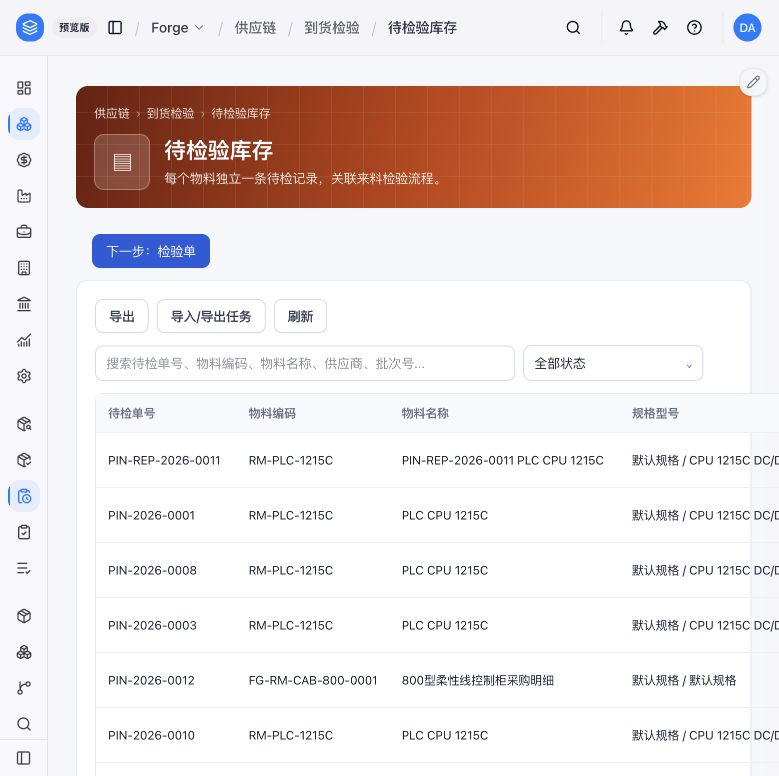
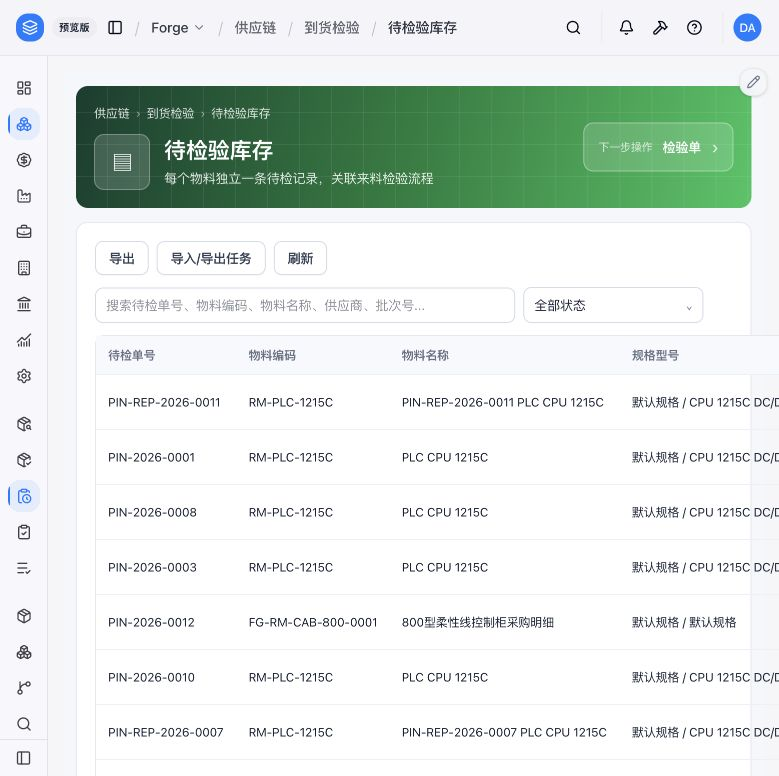
feat(forge): RISEMAP-parity toolbars for 到货通知/待检验库存/生产出库/出库单列表/报损单

diff --git a/apps/forge-objectstack/src/pages/inventory-damage.page.ts b/apps/forge-objectstack/src/pages/inventory-damage.page.ts
@@ -24,7 +24,7 @@ function App(){
  if(state.loading)return <div className="forge-product forge-damage"><style>{${JSON.stringify(css)}}</style><div className="fp-shell"><ForgeLoading label="正在加载报损单"/></div></div>;
  if(newMode||editMode){if(editMode&&state.record?.status!=='draft')return <div className="forge-product forge-damage"><style>{${JSON.stringify(css)}}</style><div className="fp-shell"><ForgeNotice tone="error">仅草稿报损单可以编辑。</ForgeNotice></div></div>;return <div className="forge-product forge-damage"><style>{${JSON.stringify(css)}}</style><div className="fp-shell"><div className="fp-phase"><span className="fp-phase-index">损</span><strong>库存管理 / 报损单 / {editMode?'编辑草稿':'新建'}</strong></div><div className="fp-page-header"><div className="fp-heading"><h1 className="fp-title">{editMode?'编辑报损单':'新建报损单'}</h1><div className="fp-description">报损提交审核后才会扣减库存，请核对仓库、类型和物料明细。</div></div><div className="fp-toolbar"><button className="fp-button" onClick={()=>window.location.href=recordId?window.location.pathname+'?id='+recordId:window.location.pathname}>取消</button><button className="fp-button" onClick={()=>{try{validate();setDialog({kind:'save',mode:'draft',title:'确认保存报损草稿',error:''})}catch(e){setDialog({kind:'message',title:'请检查报损信息',error:String(e.message||e)})}}}>保存草稿</button><button className="fp-button primary" onClick={()=>{try{validate();setDialog({kind:'save',mode:'submit',title:'确认提交报损审核',error:''})}catch(e){setDialog({kind:'message',title:'请检查报损信息',error:String(e.message||e)})}}}>提交审核</button></div></div>{toast&&<div className="fp-toast" role="status">{toast}</div>}<section className="fp-card" style={{padding:18,marginBottom:14}}><h2 className="fp-section-title">基本信息</h2><div className="fd-grid"><div className="fp-field"><label>报损仓库 *</label><ForgeSelectControl aria-label="报损仓库" value={form.warehouse_id} onChange={e=>setForm({...form,warehouse_id:e.target.value,lines:[]})}><option value="">请选择</option>{state.warehouses.map(x=><option key={x.id} value={x.id}>{x.name}</option>)}</ForgeSelectControl></div><div className="fp-field"><label>报损类型 *</label><div className="fp-toolbar"><ForgeSelectControl aria-label="报损类型" value={form.damage_type_id} onChange={e=>setForm({...form,damage_type_id:e.target.value})}><option value="">请选择</option>{activeTypes.map(x=><option key={x.id} value={x.id}>{x.name}</option>)}</ForgeSelectControl><button className="fp-button small" onClick={()=>setDialog({kind:'type',title:'快捷新增报损类型',name:'',description:'',color:'#64748b',error:''})}>快捷新增</button></div></div><div className="fp-field"><label>报损日期 *</label><ForgeDateInput aria-label="报损日期" value={form.damage_on} onChange={e=>setForm({...form,damage_on:e.target.value})}/></div></div></section><section className="fp-card"><div className="fp-card-header"><div><h2 className="fp-section-title">物料明细</h2><div className="fp-secondary">从所选仓库当前可用库存中添加物料。</div></div><button className="fp-button" disabled={!form.warehouse_id} onClick={addLine}>添加物料</button></div>{form.lines.length?<><div className="fp-table-wrap"><table className="fp-table fd-line-table"><thead><tr><th>#</th><th>物料 *</th><th>可用库存</th><th>报损数量 *</th><th>成本单价</th><th>报损金额</th><th>备注</th><th>操作</th></tr></thead><tbody>{form.lines.map((line,index)=>{const b=balanceFor(form.warehouse_id,line.sku_id);return <tr key={line.id||index}><td>{index+1}</td><td><ForgeSelectControl aria-label={'第'+(index+1)+'行报损物料'} value={line.sku_id} onChange={e=>updateLine(index,'sku_id',e.target.value)}><option value="">请选择</option>{state.balances.filter(x=>x.warehouse_id===form.warehouse_id&&Number(x.available_quantity)>0).map(x=><option key={x.id} value={x.sku_id}>{item(x.sku_id)}</option>)}</ForgeSelectControl></td><td>{qty(b?.available_quantity)}</td><td><input className="fp-input" aria-label={'第'+(index+1)+'行报损数量'} type="number" min="0.0001" value={line.quantity} onChange={e=>updateLine(index,'quantity',e.target.value)}/></td><td>{money(b?.average_cost)}</td><td>{money(Number(line.quantity||0)*Number(b?.average_cost||0))}</td><td><input className="fp-input" aria-label={'第'+(index+1)+'行备注'} value={line.remarks} onChange={e=>updateLine(index,'remarks',e.target.value)}/></td><td><button className="fp-button small danger" onClick={()=>removeLine(index)}>移除</button></td></tr>})}</tbody></table></div><div className="fd-summary"><span>物料种类 <strong>{form.lines.length}</strong></span><span>报损总量 <strong>{qty(form.lines.reduce((s,x)=>s+Number(x.quantity||0),0))}</strong></span><span>报损金额 <strong>{money(form.lines.reduce((s,x)=>s+Number(x.quantity||0)*Number(balanceFor(form.warehouse_id,x.sku_id)?.average_cost||0),0))}</strong></span></div></>:<ForgeEmpty title="暂无报损物料" description={'点击“添加物料”选择需要报损的物料'}/>}</section><section className="fp-card" style={{padding:18,marginTop:14}}><h2 className="fp-section-title">备注说明</h2><textarea className="fp-textarea" aria-label="报损原因" placeholder="描述报损原因..." value={form.remarks} onChange={e=>setForm({...form,remarks:e.target.value})}/><ForgeNotice>报损单提交后需审核确认，审核通过后将自动扣减库存。</ForgeNotice></section><ForgeDialog open={!!dialog} title={dialog?.title} subtitle="报损单" error={dialog?.error} busy={busy} confirmLabel={dialog?.kind==='type'?'确认新增':dialog?.mode==='submit'?'确认提交':'确认保存'} onCancel={()=>!busy&&setDialog(null)} onConfirm={()=>dialog?.kind==='type'?createType():dialog?.kind==='save'&&save(dialog.mode)}>{dialog?.kind==='type'?<div className="fd-grid"><div className="fp-field"><label>类型名称 *</label><input className="fp-input" aria-label="报损类型名称" value={dialog.name} onChange={e=>setDialog({...dialog,name:e.target.value,error:''})}/></div><div className="fp-field"><label>标识颜色</label><input className="fp-input" aria-label="报损类型颜色" type="color" value={dialog.color} onChange={e=>setDialog({...dialog,color:e.target.value})}/></div><div className="fp-field" style={{gridColumn:'1/-1'}}><label>类型描述</label><textarea className="fp-textarea" aria-label="报损类型描述" value={dialog.description} onChange={e=>setDialog({...dialog,description:e.target.value})}/></div></div>:dialog?.kind==='save'?<ForgeNotice>{dialog.mode==='submit'?'提交后进入审核流程，库存暂不变化；审核通过后按明细扣库。':'保存后仍为草稿，可继续编辑或作废，库存不会变化。'}</ForgeNotice>:null}</ForgeDialog></div></div>}
  if(recordId){const row=state.record;if(!row)return <div className="forge-product forge-damage"><style>{${JSON.stringify(css)}}</style><div className="fp-shell"><ForgeNotice tone="error">{state.error||'无法读取报损单'}</ForgeNotice></div></div>;return <div className="forge-product forge-damage"><style>{${JSON.stringify(css)}}</style><div className="fp-shell"><div className="fp-phase"><span className="fp-phase-index">损</span><button className="fp-link-button" onClick={()=>window.location.href=window.location.pathname}>报损单</button><span>/</span><strong>{row.code}</strong></div><div className="fp-page-header"><div className="fp-heading"><div className="fp-title-row"><h1 className="fp-title">{row.code}</h1><ForgeStatus value={row.status} label={statusText[row.status]}/></div><div className="fp-description">{warehouseName(row.warehouse_id)} · {typeName(row.damage_type_id)} · {row.damage_on}</div></div><div className="fp-toolbar"><button className="fp-button" onClick={()=>window.location.href=window.location.pathname}>返回列表</button>{row.status==='draft'&&<><button className="fp-button" onClick={()=>window.location.href=window.location.pathname+'?id='+row.id+'&edit=1'}>编辑草稿</button><button className="fp-button primary" onClick={()=>setDialog({kind:'submit',title:'确认提交报损审核',error:''})}>提交审核</button></>}{row.status==='pending_approval'&&<><button className="fp-button primary" onClick={()=>setDialog({kind:'approve',title:'审核并扣减库存',note:'',error:''})}>审核并扣库</button><button className="fp-button danger" onClick={()=>setDialog({kind:'reject',title:'驳回报损单',note:'',error:''})}>驳回</button></>}{['draft','rejected'].includes(row.status)&&<button className="fp-button danger" onClick={()=>setDialog({kind:'void',title:'确认作废报损单',reason:'',error:''})}>作废报损单</button>}</div></div>{toast&&<div className="fp-toast" role="status">{toast}</div>}<div className="fd-flow"><span className={row.status==='draft'?'active':''}>草稿</span><span className={row.status==='pending_approval'?'active':''}>待审批</span><span className={row.status==='completed'?'active':''}>已扣库</span></div><section className="fp-card" style={{padding:18,marginBottom:14}}><div className="fp-detail-grid"><div><span>报损仓库</span><strong>{warehouseName(row.warehouse_id)}</strong></div><div><span>报损类型</span><strong>{typeName(row.damage_type_id)}</strong></div><div><span>经手人</span><strong>{userName(row.handler_id)}</strong></div><div><span>物料种类</span><strong>{row.line_count}</strong></div><div><span>报损总量</span><strong>{qty(row.total_quantity)}</strong></div><div><span>报损金额</span><strong>{money(row.total_amount)}</strong></div><div><span>审批意见</span><strong>{row.approval_note||'—'}</strong></div><div><span>作废原因</span><strong>{row.void_reason||'—'}</strong></div></div></section><section className="fp-card"><div className="fp-card-header"><h2 className="fp-section-title">报损物料明细</h2></div><div className="fp-table-wrap"><table className="fp-table"><thead><tr><th>物料编码</th><th>名称 / 规格</th><th>数量</th><th>含税单位成本</th><th>报损金额</th><th>状态</th></tr></thead><tbody>{state.lines.map(line=><tr key={line.id}><td>{line.item_code||'—'}</td><td>{line.name}<div className="fp-secondary">{line.specification||'—'}</div></td><td>{qty(line.quantity)} {line.unit_name||''}</td><td>{money(line.unit_cost)}</td><td>{money(line.amount)}</td><td><ForgeStatus value={line.status} label={statusText[line.status]}/></td></tr>)}</tbody></table></div></section><ForgeDialog open={!!dialog} title={dialog?.title} subtitle={row.code} error={dialog?.error} busy={busy} danger={['reject','void'].includes(dialog?.kind)} confirmLabel={dialog?.kind==='approve'?'确认审核扣库':dialog?.kind==='reject'?'确认驳回':dialog?.kind==='void'?'确认作废':'确认提交'} onCancel={()=>!busy&&setDialog(null)} onConfirm={()=>{if(dialog?.kind==='submit')invoke('inventory_damage_submit');if(dialog?.kind==='approve'){const note=String(dialog.note||'').trim();if(!note)return setDialog({...dialog,error:'请填写审批意见'});invoke('inventory_damage_approve',{approval_note:note})}if(dialog?.kind==='reject'){const note=String(dialog.note||'').trim();if(!note)return setDialog({...dialog,error:'请填写驳回原因'});invoke('inventory_damage_reject',{approval_note:note})}if(dialog?.kind==='void'){const reason=String(dialog.reason||'').trim();if(!reason)return setDialog({...dialog,error:'请填写作废原因'});invoke('inventory_damage_void',{void_reason:reason})}}}><ForgeNotice tone={dialog?.kind==='approve'?'warning':'info'}>{dialog?.kind==='submit'?'提交后进入审核，库存暂不变化。':dialog?.kind==='approve'?'确认后将立即按全部明细扣减库存、写入逐物料流水，不能撤回。':dialog?.kind==='reject'?'驳回后不扣减库存，可保留记录用于追溯。':'作废后不能继续编辑、提交或审核，已填写内容保留用于追溯。'}</ForgeNotice>{['approve','reject'].includes(dialog?.kind)&&<div className="fp-field" style={{marginTop:12}}><label>{dialog.kind==='approve'?'审批意见':'驳回原因'} *</label><textarea className="fp-textarea" aria-label={dialog.kind==='approve'?'审批意见':'驳回原因'} value={dialog.note||''} onChange={e=>setDialog({...dialog,note:e.target.value,error:''})}/></div>}{dialog?.kind==='void'&&<div className="fp-field" style={{marginTop:12}}><label>作废原因 *</label><textarea className="fp-textarea" aria-label="作废原因" value={dialog.reason||''} onChange={e=>setDialog({...dialog,reason:e.target.value,error:''})}/></div>}</ForgeDialog></div></div>}
- return <div className="forge-product forge-damage"><style>{${JSON.stringify(css)}}</style><div className="fp-shell"><div className="fp-list-context"><ForgeHero section="供应链 / 库存管理 / 报损单" title="报损单" description="商品损坏、丢失、盘亏报损单据，支持审批流程" icon="▤" tone="orange" art="stack"/><div className="fp-toolbar"><button className="fp-button primary" onClick={()=>window.location.href=window.location.pathname+'?new=1'}>新建报损</button><button className="fp-button" disabled={!filtered.length} onClick={exportDamages}>导出</button><button className="fp-button" onClick={load}>刷新</button></div></div><div className="fp-description" style={{marginBottom:12}}>管理商品损坏、丢失与盘亏报损，审核通过后自动扣减库存。</div><section className="fp-card"><div className="fp-filterbar"><input className="fp-input" aria-label="搜索报损单" placeholder="搜索报损单号、仓库或类型" value={query} onChange={e=>{setQuery(e.target.value);setPage(1)}}/><ForgeSelectControl aria-label="报损状态" value={status} onChange={e=>{setStatus(e.target.value);setPage(1)}}><option value="">全部状态</option>{Object.entries(statusText).map(([value,label])=><option key={value} value={value}>{label}</option>)}</ForgeSelectControl><button className="fp-button" onClick={()=>{setQuery('');setStatus('')}}>清空筛选</button></div><div className="fp-table-wrap"><table className="fp-table"><thead><tr><th>报损单号</th><th>所在仓库</th><th>报损类型</th><th>报损物料</th><th>报损金额</th><th>经手人</th><th>状态</th><th>创建日期</th><th>操作</th></tr></thead><tbody>{visibleRows.map(row=><tr key={row.id}><td><strong>{row.code}</strong></td><td>{warehouseName(row.warehouse_id)}</td><td>{typeName(row.damage_type_id)}</td><td>{row.line_count}</td><td>{qty(row.total_quantity)}</td><td>{money(row.total_amount)}</td><td>{userName(row.handler_id)}</td><td><ForgeStatus value={row.status} label={statusText[row.status]}/></td><td>{String(row.created_at||row.damage_on||'').slice(0,10)}</td><td><div className="fp-toolbar"><button className="fp-button small" onClick={()=>window.location.href=window.location.pathname+'?id='+row.id}>查看</button>{row.status==='draft'&&<button className="fp-button small primary" onClick={()=>window.location.href=window.location.pathname+'?id='+row.id+'&edit=1'}>编辑</button>}</div></td></tr>)}{!visibleRows.length&&<tr><td colSpan="10"><ForgeEmpty title="暂无报损单" description="新建报损单后，可保存草稿或提交审核。" action={<button className="fp-button primary" onClick={()=>window.location.href=window.location.pathname+'?new=1'}>新建报损</button>}/></td></tr>}</tbody></table></div><div className="fp-toolbar" style={{justifyContent:'flex-end',marginTop:12}}><span className="fp-secondary">共 {filtered.length} 条 · 20 条/页</span><button className="fp-button" disabled={safePage<=1} onClick={()=>setPage(p=>Math.max(1,p-1))}>上一页</button><span>{safePage} / {totalPages}</span><button className="fp-button" disabled={safePage>=totalPages} onClick={()=>setPage(p=>Math.min(totalPages,p+1))}>下一页</button></div></section></div></div>
+ return <div className="forge-product forge-damage"><style>{${JSON.stringify(css)}}</style><div className="fp-shell"><ForgeHero section="供应链 / 库存管理 / 报损单" title="报损单" description="商品损坏、丢失、盘亏报损单据，支持审批流程" icon="▤" tone="orange" art="stack"/><div className="fp-description" style={{marginBottom:12}}>管理商品损坏、丢失与盘亏报损，审核通过后自动扣减库存。</div><section className="fp-card"><div className="fp-card-toolbar"><button className="fp-button primary" onClick={()=>window.location.href=window.location.pathname+'?new=1'}>新建报损</button><button className="fp-button" disabled={!filtered.length} onClick={exportDamages}>导出 ▾</button><span className="fp-grow"/><button className="fp-icon-button" aria-label="刷新" title="刷新" onClick={load}><svg viewBox="0 0 24 24" fill="none" stroke="currentColor" strokeWidth="2" strokeLinecap="round" strokeLinejoin="round"><path d="M21 12a9 9 0 1 1-3-6.7"/><path d="M21 3v6h-6"/></svg></button></div><div className="fp-filterbar"><input className="fp-input" aria-label="搜索报损单" placeholder="搜索报损单号、仓库或类型" value={query} onChange={e=>{setQuery(e.target.value);setPage(1)}}/><ForgeSelectControl aria-label="报损状态" value={status} onChange={e=>{setStatus(e.target.value);setPage(1)}}><option value="">全部状态</option>{Object.entries(statusText).map(([value,label])=><option key={value} value={value}>{label}</option>)}</ForgeSelectControl><button className="fp-button" onClick={()=>{setQuery('');setStatus('')}}>清空筛选</button></div><div className="fp-table-wrap"><table className="fp-table"><thead><tr><th>报损单号</th><th>所在仓库</th><th>报损类型</th><th>报损物料</th><th>报损金额</th><th>经手人</th><th>状态</th><th>创建日期</th><th>操作</th></tr></thead><tbody>{visibleRows.map(row=><tr key={row.id}><td><strong>{row.code}</strong></td><td>{warehouseName(row.warehouse_id)}</td><td>{typeName(row.damage_type_id)}</td><td>{row.line_count}</td><td>{qty(row.total_quantity)}</td><td>{money(row.total_amount)}</td><td>{userName(row.handler_id)}</td><td><ForgeStatus value={row.status} label={statusText[row.status]}/></td><td>{String(row.created_at||row.damage_on||'').slice(0,10)}</td><td><div className="fp-toolbar"><button className="fp-button small" onClick={()=>window.location.href=window.location.pathname+'?id='+row.id}>查看</button>{row.status==='draft'&&<button className="fp-button small primary" onClick={()=>window.location.href=window.location.pathname+'?id='+row.id+'&edit=1'}>编辑</button>}</div></td></tr>)}{!visibleRows.length&&<tr><td colSpan="10"><ForgeEmpty title="暂无报损单" description="新建报损单后，可保存草稿或提交审核。" action={<button className="fp-button primary" onClick={()=>window.location.href=window.location.pathname+'?new=1'}>新建报损</button>}/></td></tr>}</tbody></table></div><div className="fp-toolbar" style={{justifyContent:'flex-end',marginTop:12}}><span className="fp-secondary">共 {filtered.length} 条 · 20 条/页</span><button className="fp-button" disabled={safePage<=1} onClick={()=>setPage(p=>Math.max(1,p-1))}>上一页</button><span>{safePage} / {totalPages}</span><button className="fp-button" disabled={safePage>=totalPages} onClick={()=>setPage(p=>Math.min(totalPages,p+1))}>下一页</button></div></section></div></div>
 }
 export default App;
 ${forgeProductUiRuntime}

diff --git a/apps/forge-objectstack/src/pages/production-outbound-list.page.ts b/apps/forge-objectstack/src/pages/production-outbound-list.page.ts
@@ -15,7 +15,7 @@ function App(){
  const all=[...assemblyRows,...subcontractRows].filter(row=>{const material=row.lines.map(line=>[line.item_code,line.name,line.item_name].join(' ')).join(' '),haystack=[row.code,row.related,row.salesCode,row.customerPo,row.party,material,warehouse(row.warehouseId)].join(' ').toLowerCase();return(!query.trim()||haystack.includes(query.trim().toLowerCase()))&&(!type||row.type===type)&&(!status||row.status===status)}).sort((a,b)=>String(b.date).localeCompare(String(a.date))||String(b.code).localeCompare(String(a.code))),pageCount=Math.max(1,Math.ceil(all.length/20)),safePage=Math.min(page,pageCount),rows=all.slice((safePage-1)*20,safePage*20),selectedRows=all.filter(row=>selected.includes(row.id)),allSelected=rows.length>0&&rows.every(row=>selected.includes(row.id));
  function toggleAll(){setSelected(current=>allSelected?current.filter(id=>!rows.some(row=>row.id===id)):[...new Set([...current,...rows.map(row=>row.id)])])}function exportRows(){const headers=['出库单号','关联单号','销售单号','客户单号','往来单位','物料明细','仓库','出库日期','状态','物流信息','收入确认','操作员'],body=all.map(row=>[row.code,row.related,row.salesCode,row.customerPo,row.party,row.lines.map(line=>(line.item_code||'')+' '+(line.name||line.item_name||'')+'×'+qty(line.quantity??line.issue_quantity)).join('；'),warehouse(row.warehouseId),row.date,statusText[row.status],row.logistics,row.revenue,row.operator]),csv=[headers,...body].map(line=>line.map(value=>'"'+String(value??'').replaceAll('"','""')+'"').join(',')).join('\\n'),a=document.createElement('a');a.href=URL.createObjectURL(new Blob(['\\ufeff'+csv],{type:'text/csv'}));a.download='production-outbounds.csv';a.click();URL.revokeObjectURL(a.href);setToast('已导出 '+all.length+' 条生产出库单')}
  if(state.loading)return <div className="forge-product forge-production-outbound"><style>{css}</style><ForgeLoading label="加载生产出库"/></div>;
- return <div className="forge-product forge-production-outbound"><style>{css}</style><div className="fp-shell"><div className="fp-list-context"><div className="fp-phase"><span className="fp-phase-index">出</span><strong>出库管理 / 生产出库</strong></div><div className="fp-toolbar"><button className="fp-button primary" onClick={()=>window.location.href=forgeBase+'/page/page_production_inbound_entry'}>下一步操作　生产入库 ›</button><button className="fp-button" disabled={!selected.length} onClick={()=>setDialog({kind:'barcode'})}>打印条码</button><button className="fp-button" disabled={!all.length} onClick={exportRows}>导出</button><button className="fp-button" onClick={load}>刷新</button></div></div><ForgeHero section="供应链 / 出库管理 / 生产出库" title="生产出库" description="管理所有出库单和待出库发货单" icon="▤" tone="indigo" art="flow"/>{state.error&&<ForgeNotice tone="error" onClose={()=>setState(current=>({...current,error:''}))}>{state.error}</ForgeNotice>}<section className="fp-card"><div className="fp-filterbar"><input className="fp-input" aria-label="搜索生产出库" placeholder="搜索出库单号、客户、关联单号..." value={query} onChange={event=>{setQuery(event.target.value);setPage(1)}}/><ForgeSelect label="出库类型" value={type} onChange={value=>{setType(value);setPage(1)}} options={Object.entries(typeText).map(([value,label])=>({value,label}))} placeholder="全部出库类型"/><ForgeSelect label="状态" value={status} onChange={value=>{setStatus(value);setPage(1)}} options={Object.entries(statusText).map(([value,label])=>({value,label}))} placeholder="全部状态"/>{(query||type||status)&&<button className="fp-button" onClick={()=>{setQuery('');setType('');setStatus('');setPage(1)}}>清空筛选</button>}</div><div className="fp-table-wrap"><table className="fp-table"><thead><tr><th><input aria-label="选择当前页" type="checkbox" checked={allSelected} onChange={toggleAll}/></th><th>出库单号</th><th>关联单号</th><th>销售单号</th><th>客户单号</th><th>往来单位</th><th>物料明细</th><th>仓库</th><th>出库日期</th><th>状态</th><th>物流信息</th><th>收入确认</th><th>操作员</th><th>操作</th></tr></thead><tbody>{rows.map(row=><tr key={row.id}><td><input aria-label={'选择 '+row.code} type="checkbox" checked={selected.includes(row.id)} onChange={()=>setSelected(current=>current.includes(row.id)?current.filter(id=>id!==row.id):[...current,row.id])}/></td><td><strong>{row.code}</strong><div className="fp-secondary">{typeText[row.type]}</div></td><td>{row.related}</td><td>{row.salesCode}</td><td>{row.customerPo}</td><td>{row.party}</td><td>{row.lines.length?row.lines.slice(0,2).map((line,index)=><div key={line.id||index}>{line.item_code||'—'} · {line.name||line.item_name||'物料'} × {qty(line.quantity??line.issue_quantity)}</div>):<span>明细随来源单查看</span>}</td><td>{warehouse(row.warehouseId)}</td><td>{row.date||'—'}</td><td><ForgeStatus value={row.status} label={statusText[row.status]}/></td><td>{row.logistics}</td><td>{row.revenue}</td><td>{row.operator}</td><td><div className="fp-toolbar"><button className="fp-button small" onClick={()=>setDialog({kind:'detail',row})}>查看</button><button className={'fp-button small '+(row.status==='pending'?'primary':'')} onClick={()=>window.location.href=row.href}>{row.status==='pending'?'办理':'来源单'}</button></div></td></tr>)}{!rows.length&&<tr><td colSpan="14" className="fp-empty-cell"><ForgeEmpty title="暂无生产出库单" description="确认组装领料、补料或委外发料后，生产出库记录会汇总到这里。"/></td></tr>}</tbody></table></div><div className="fp-pagination"><span>共 <strong>{all.length}</strong> 条记录</span><span>每页 20 条</span><button className="fp-button small" disabled={safePage<=1} onClick={()=>setPage(value=>Math.max(1,value-1))}>上一页</button><span>{safePage} / {pageCount}</span><button className="fp-button small" disabled={safePage>=pageCount} onClick={()=>setPage(value=>Math.min(pageCount,value+1))}>下一页</button></div></section></div>{dialog&&<ForgeDialog open title={dialog.kind==='barcode'?'生产出库条码预览':'生产出库详情'} subtitle={dialog.kind==='barcode'?'已选择 '+selectedRows.length+' 张出库单':dialog.row.code} confirmLabel="关闭" onCancel={()=>setDialog(null)} onConfirm={()=>setDialog(null)}>{dialog.kind==='barcode'?<div className="barcode-list">{selectedRows.map(row=><div className="barcode-item" key={row.id}><strong>{row.code}</strong><div>{typeText[row.type]} · {statusText[row.status]} · {qty(row.quantity)} · {money(row.amount)}</div></div>)}</div>:<div className="detail-grid"><div className="detail-item"><small>关联单号</small>{dialog.row.related}</div><div className="detail-item"><small>出库类型</small>{typeText[dialog.row.type]}</div><div className="detail-item"><small>往来单位</small>{dialog.row.party}</div><div className="detail-item"><small>仓库 / 日期</small>{warehouse(dialog.row.warehouseId)} / {dialog.row.date||'—'}</div><div className="detail-item"><small>数量 / 金额</small>{qty(dialog.row.quantity)} / {money(dialog.row.amount)}</div><div className="detail-item"><small>状态 / 操作员</small>{statusText[dialog.row.status]} / {dialog.row.operator}</div></div>}</ForgeDialog>}{toast&&<div className="fp-toast" role="status">{toast}</div>}</div>
+ return <div className="forge-product forge-production-outbound"><style>{css}</style><div className="fp-shell"><ForgeHero section="供应链 / 出库管理 / 生产出库" title="生产出库" description="管理所有出库单和待出库发货单" icon="▤" tone="indigo" art="flow" next={{label:"生产入库",href:forgeBase+'/page/page_production_inbound_entry',title:"下一步操作 · 生产入库"}}/>{state.error&&<ForgeNotice tone="error" onClose={()=>setState(current=>({...current,error:''}))}>{state.error}</ForgeNotice>}<section className="fp-card"><div className="fp-card-toolbar"><button className="fp-button" disabled={!selected.length} onClick={()=>setDialog({kind:'barcode'})}>打印条码</button><button className="fp-button" disabled={!all.length} onClick={exportRows}>导出 ▾</button><span className="fp-grow"/><button className="fp-icon-button" aria-label="刷新" title="刷新" onClick={load}><svg viewBox="0 0 24 24" fill="none" stroke="currentColor" strokeWidth="2" strokeLinecap="round" strokeLinejoin="round"><path d="M21 12a9 9 0 1 1-3-6.7"/><path d="M21 3v6h-6"/></svg></button></div><div className="fp-filterbar"><input className="fp-input" aria-label="搜索生产出库" placeholder="搜索出库单号、客户、关联单号..." value={query} onChange={event=>{setQuery(event.target.value);setPage(1)}}/><ForgeSelect label="出库类型" value={type} onChange={value=>{setType(value);setPage(1)}} options={Object.entries(typeText).map(([value,label])=>({value,label}))} placeholder="全部出库类型"/><ForgeSelect label="状态" value={status} onChange={value=>{setStatus(value);setPage(1)}} options={Object.entries(statusText).map(([value,label])=>({value,label}))} placeholder="全部状态"/>{(query||type||status)&&<button className="fp-button" onClick={()=>{setQuery('');setType('');setStatus('');setPage(1)}}>清空筛选</button>}</div><div className="fp-table-wrap"><table className="fp-table"><thead><tr><th><input aria-label="选择当前页" type="checkbox" checked={allSelected} onChange={toggleAll}/></th><th>出库单号</th><th>关联单号</th><th>销售单号</th><th>客户单号</th><th>往来单位</th><th>物料明细</th><th>仓库</th><th>出库日期</th><th>状态</th><th>物流信息</th><th>收入确认</th><th>操作员</th><th>操作</th></tr></thead><tbody>{rows.map(row=><tr key={row.id}><td><input aria-label={'选择 '+row.code} type="checkbox" checked={selected.includes(row.id)} onChange={()=>setSelected(current=>current.includes(row.id)?current.filter(id=>id!==row.id):[...current,row.id])}/></td><td><strong>{row.code}</strong><div className="fp-secondary">{typeText[row.type]}</div></td><td>{row.related}</td><td>{row.salesCode}</td><td>{row.customerPo}</td><td>{row.party}</td><td>{row.lines.length?row.lines.slice(0,2).map((line,index)=><div key={line.id||index}>{line.item_code||'—'} · {line.name||line.item_name||'物料'} × {qty(line.quantity??line.issue_quantity)}</div>):<span>明细随来源单查看</span>}</td><td>{warehouse(row.warehouseId)}</td><td>{row.date||'—'}</td><td><ForgeStatus value={row.status} label={statusText[row.status]}/></td><td>{row.logistics}</td><td>{row.revenue}</td><td>{row.operator}</td><td><div className="fp-toolbar"><button className="fp-button small" onClick={()=>setDialog({kind:'detail',row})}>查看</button><button className={'fp-button small '+(row.status==='pending'?'primary':'')} onClick={()=>window.location.href=row.href}>{row.status==='pending'?'办理':'来源单'}</button></div></td></tr>)}{!rows.length&&<tr><td colSpan="14" className="fp-empty-cell"><ForgeEmpty title="暂无生产出库单" description="确认组装领料、补料或委外发料后，生产出库记录会汇总到这里。"/></td></tr>}</tbody></table></div><div className="fp-pagination"><span>共 <strong>{all.length}</strong> 条记录</span><span>每页 20 条</span><button className="fp-button small" disabled={safePage<=1} onClick={()=>setPage(value=>Math.max(1,value-1))}>上一页</button><span>{safePage} / {pageCount}</span><button className="fp-button small" disabled={safePage>=pageCount} onClick={()=>setPage(value=>Math.min(pageCount,value+1))}>下一页</button></div></section></div>{dialog&&<ForgeDialog open title={dialog.kind==='barcode'?'生产出库条码预览':'生产出库详情'} subtitle={dialog.kind==='barcode'?'已选择 '+selectedRows.length+' 张出库单':dialog.row.code} confirmLabel="关闭" onCancel={()=>setDialog(null)} onConfirm={()=>setDialog(null)}>{dialog.kind==='barcode'?<div className="barcode-list">{selectedRows.map(row=><div className="barcode-item" key={row.id}><strong>{row.code}</strong><div>{typeText[row.type]} · {statusText[row.status]} · {qty(row.quantity)} · {money(row.amount)}</div></div>)}</div>:<div className="detail-grid"><div className="detail-item"><small>关联单号</small>{dialog.row.related}</div><div className="detail-item"><small>出库类型</small>{typeText[dialog.row.type]}</div><div className="detail-item"><small>往来单位</small>{dialog.row.party}</div><div className="detail-item"><small>仓库 / 日期</small>{warehouse(dialog.row.warehouseId)} / {dialog.row.date||'—'}</div><div className="detail-item"><small>数量 / 金额</small>{qty(dialog.row.quantity)} / {money(dialog.row.amount)}</div><div className="detail-item"><small>状态 / 操作员</small>{statusText[dialog.row.status]} / {dialog.row.operator}</div></div>}</ForgeDialog>}{toast&&<div className="fp-toast" role="status">{toast}</div>}</div>
 }
 export default App;
 ${forgeProductUiRuntime}`;

diff --git a/apps/forge-objectstack/src/pages/sales-outbound-list.page.ts b/apps/forge-objectstack/src/pages/sales-outbound-list.page.ts
@@ -16,7 +16,7 @@ function App(){
  const supported=new Set(Object.keys(sourceType)),grouped={};state.ledgers.filter(line=>line.direction==='outbound'&&supported.has(line.source_object)).forEach(line=>{const key=line.source_object+':'+line.source_id;(grouped[key]||(grouped[key]=[])).push(line)});let allRows=Object.values(grouped).map(lines=>buildRow(lines[0].source_object,lines[0].source_id,lines));const present=new Set(allRows.map(row=>row.id));for(const row of state.otherOutbounds.filter(row=>row.status==='approved'))if(!present.has('forge_other_outbound:'+row.id))allRows.push(buildRow('forge_other_outbound',row.id,[],'pending'));for(const row of state.purchaseReturns.filter(row=>row.status==='warehouse_confirmed'))if(!present.has('forge_purchase_return:'+row.id))allRows.push(buildRow('forge_purchase_return',row.id,[],'pending'));for(const row of state.subcontractOutbounds.filter(row=>row.status==='pending'))if(!present.has('forge_subcontract_outbound:'+row.id))allRows.push(buildRow('forge_subcontract_outbound',row.id,[],'pending'));allRows=allRows.filter(row=>(!type||row.type===type)&&(!status||row.status===status)&&(!query.trim()||[row.code,row.relation,row.salesNo,row.customerNo,row.party,row.items.join(' '),row.warehouses].join(' ').toLowerCase().includes(query.trim().toLowerCase()))).sort((a,b)=>String(b.date).localeCompare(String(a.date))||String(b.code).localeCompare(String(a.code)));const pageCount=Math.max(1,Math.ceil(allRows.length/20)),safePage=Math.min(page,pageCount),rows=allRows.slice((safePage-1)*20,safePage*20),allSelected=rows.length>0&&rows.every(row=>selected.includes(row.id)),selectedRows=allRows.filter(row=>selected.includes(row.id));
  function toggleAll(){setSelected(current=>allSelected?current.filter(id=>!rows.some(row=>row.id===id)):[...new Set([...current,...rows.map(row=>row.id)])])}function exportRows(){const headers=['出库单号','关联单号','销售单号','客户单号','往来单位','物料明细','仓库','出库日期','状态','物流信息','收入确认','操作员'],body=allRows.map(row=>[row.code,row.relation,row.salesNo,row.customerNo,row.party,row.items.join('；'),row.warehouses,row.date,statusText[row.status],row.logistics,row.revenue,row.operator]),csv=[headers,...body].map(line=>line.map(value=>'"'+String(value??'').replaceAll('"','""')+'"').join(',')).join('\\n'),a=document.createElement('a');a.href=URL.createObjectURL(new Blob(['\\ufeff'+csv],{type:'text/csv'}));a.download='outbound-orders.csv';a.click();URL.revokeObjectURL(a.href);setToast('已导出 '+allRows.length+' 条出库单')}
  if(state.loading)return <div className="forge-product forge-outbound-list"><style>{css}</style><ForgeLoading label="加载出库单列表"/></div>;
- return <div className="forge-product forge-outbound-list"><style>{css}</style><div className="fp-shell"><div className="fp-list-context"><div className="fp-phase"><span className="fp-phase-index">单</span><strong>出库管理 / 出库单列表</strong></div><div className="fp-toolbar"><button className="fp-button" disabled={!selected.length} onClick={()=>setPreview(true)}>打印条码</button><button className="fp-button" disabled={!allRows.length} onClick={exportRows}>导出</button><button className="fp-button" onClick={load}>刷新</button></div></div><ForgeHero section="供应链 / 出库管理 / 出库单列表" title="出库单列表" description="管理所有出库单和待出库发货单" icon="▤" tone="indigo" art="flow"/>{state.error&&<ForgeNotice tone="error" onClose={()=>setState(current=>({...current,error:''}))}>{state.error}</ForgeNotice>}<section className="fp-card"><div className="fp-filterbar"><input className="fp-input" aria-label="搜索出库单" placeholder="搜索出库单号、关联单号、往来单位、物料..." value={query} onChange={event=>{setQuery(event.target.value);setPage(1)}}/><ForgeSelect label="业务类型" value={type} onChange={value=>{setType(value);setPage(1)}} options={Object.entries(typeText).map(([value,label])=>({value,label}))} placeholder="全部业务类型"/><ForgeSelect label="状态" value={status} onChange={value=>{setStatus(value);setPage(1)}} options={Object.entries(statusText).map(([value,label])=>({value,label}))} placeholder="全部状态"/>{(query||type||status)&&<button className="fp-button" onClick={()=>{setQuery('');setType('');setStatus('');setPage(1)}}>清空筛选</button>}</div><div className="fp-table-wrap"><table className="fp-table"><thead><tr><th><input aria-label="选择当前页" type="checkbox" checked={allSelected} onChange={toggleAll}/></th><th>出库单号</th><th>关联单号</th><th>销售单号</th><th>客户单号</th><th>往来单位</th><th>物料明细</th><th>仓库</th><th>出库日期</th><th>状态</th><th>物流信息</th><th>收入确认</th><th>操作员</th><th>操作</th></tr></thead><tbody>{rows.map(row=><tr key={row.id}><td><input aria-label={'选择 '+row.code} type="checkbox" checked={selected.includes(row.id)} onChange={()=>setSelected(current=>current.includes(row.id)?current.filter(id=>id!==row.id):[...current,row.id])}/></td><td><button className="fp-link-button" onClick={()=>window.location.href=href(row)}>{row.code}</button></td><td>{row.relation}</td><td>{row.salesNo}</td><td>{row.customerNo}</td><td>{row.party}</td><td><div className="material-stack">{row.items.length?row.items.slice(0,3).map((item,index)=><span key={index}>{item}</span>):<span>待出库</span>}{row.items.length>3&&<span className="fp-secondary">另有 {row.items.length-3} 项</span>}</div></td><td>{row.warehouses}</td><td>{row.date||'—'}</td><td><ForgeStatus value={row.status} label={statusText[row.status]}/></td><td>{row.logistics}</td><td>{row.revenue}</td><td>{row.operator}</td><td><button className={'fp-button small '+(row.status==='pending'?'primary':'')} onClick={()=>window.location.href=href(row)}>{row.status==='pending'?'办理':'查看'}</button></td></tr>)}{!rows.length&&<tr><td colSpan="14" className="fp-empty-cell"><ForgeEmpty title="暂无匹配的出库单" description="销售、生产、采购退货、其他出库或委外出库形成后，会统一汇总到这里。"/></td></tr>}</tbody></table></div><div className="fp-pagination"><span>共 <strong>{allRows.length}</strong> 条记录</span><span>每页 20 条</span><button className="fp-button small" disabled={safePage<=1} onClick={()=>setPage(value=>Math.max(1,value-1))}>上一页</button><span>{safePage} / {pageCount}</span><button className="fp-button small" disabled={safePage>=pageCount} onClick={()=>setPage(value=>Math.min(pageCount,value+1))}>下一页</button></div></section></div>{preview&&<ForgeDialog open title="出库单条码预览" subtitle={'已选择 '+selectedRows.length+' 张出库单'} confirmLabel="关闭" onCancel={()=>setPreview(false)} onConfirm={()=>setPreview(false)}><div className="barcode-list">{selectedRows.map(row=><div className="barcode-item" key={row.id}><strong>{row.code}</strong><div>{typeText[row.type]||row.type} · {statusText[row.status]} · {qty(row.quantity)} · {money(row.amount)}</div></div>)}</div></ForgeDialog>}{toast&&<div className="fp-toast" role="status">{toast}</div>}</div>
+ return <div className="forge-product forge-outbound-list"><style>{css}</style><div className="fp-shell"><ForgeHero section="供应链 / 出库管理 / 出库单列表" title="出库单列表" description="管理所有出库单和待出库发货单" icon="▤" tone="indigo" art="flow"/>{state.error&&<ForgeNotice tone="error" onClose={()=>setState(current=>({...current,error:''}))}>{state.error}</ForgeNotice>}<section className="fp-card"><div className="fp-card-toolbar"><button className="fp-button" disabled={!selected.length} onClick={()=>setPreview(true)}>打印条码</button><button className="fp-button" disabled={!allRows.length} onClick={exportRows}>导出 ▾</button><span className="fp-grow"/><button className="fp-icon-button" aria-label="刷新" title="刷新" onClick={load}><svg viewBox="0 0 24 24" fill="none" stroke="currentColor" strokeWidth="2" strokeLinecap="round" strokeLinejoin="round"><path d="M21 12a9 9 0 1 1-3-6.7"/><path d="M21 3v6h-6"/></svg></button></div><div className="fp-filterbar"><input className="fp-input" aria-label="搜索出库单" placeholder="搜索出库单号、关联单号、往来单位、物料..." value={query} onChange={event=>{setQuery(event.target.value);setPage(1)}}/><ForgeSelect label="业务类型" value={type} onChange={value=>{setType(value);setPage(1)}} options={Object.entries(typeText).map(([value,label])=>({value,label}))} placeholder="全部业务类型"/><ForgeSelect label="状态" value={status} onChange={value=>{setStatus(value);setPage(1)}} options={Object.entries(statusText).map(([value,label])=>({value,label}))} placeholder="全部状态"/>{(query||type||status)&&<button className="fp-button" onClick={()=>{setQuery('');setType('');setStatus('');setPage(1)}}>清空筛选</button>}</div><div className="fp-table-wrap"><table className="fp-table"><thead><tr><th><input aria-label="选择当前页" type="checkbox" checked={allSelected} onChange={toggleAll}/></th><th>出库单号</th><th>关联单号</th><th>销售单号</th><th>客户单号</th><th>往来单位</th><th>物料明细</th><th>仓库</th><th>出库日期</th><th>状态</th><th>物流信息</th><th>收入确认</th><th>操作员</th><th>操作</th></tr></thead><tbody>{rows.map(row=><tr key={row.id}><td><input aria-label={'选择 '+row.code} type="checkbox" checked={selected.includes(row.id)} onChange={()=>setSelected(current=>current.includes(row.id)?current.filter(id=>id!==row.id):[...current,row.id])}/></td><td><button className="fp-link-button" onClick={()=>window.location.href=href(row)}>{row.code}</button></td><td>{row.relation}</td><td>{row.salesNo}</td><td>{row.customerNo}</td><td>{row.party}</td><td><div className="material-stack">{row.items.length?row.items.slice(0,3).map((item,index)=><span key={index}>{item}</span>):<span>待出库</span>}{row.items.length>3&&<span className="fp-secondary">另有 {row.items.length-3} 项</span>}</div></td><td>{row.warehouses}</td><td>{row.date||'—'}</td><td><ForgeStatus value={row.status} label={statusText[row.status]}/></td><td>{row.logistics}</td><td>{row.revenue}</td><td>{row.operator}</td><td><button className={'fp-button small '+(row.status==='pending'?'primary':'')} onClick={()=>window.location.href=href(row)}>{row.status==='pending'?'办理':'查看'}</button></td></tr>)}{!rows.length&&<tr><td colSpan="14" className="fp-empty-cell"><ForgeEmpty title="暂无匹配的出库单" description="销售、生产、采购退货、其他出库或委外出库形成后，会统一汇总到这里。"/></td></tr>}</tbody></table></div><div className="fp-pagination"><span>共 <strong>{allRows.length}</strong> 条记录</span><span>每页 20 条</span><button className="fp-button small" disabled={safePage<=1} onClick={()=>setPage(value=>Math.max(1,value-1))}>上一页</button><span>{safePage} / {pageCount}</span><button className="fp-button small" disabled={safePage>=pageCount} onClick={()=>setPage(value=>Math.min(pageCount,value+1))}>下一页</button></div></section></div>{preview&&<ForgeDialog open title="出库单条码预览" subtitle={'已选择 '+selectedRows.length+' 张出库单'} confirmLabel="关闭" onCancel={()=>setPreview(false)} onConfirm={()=>setPreview(false)}><div className="barcode-list">{selectedRows.map(row=><div className="barcode-item" key={row.id}><strong>{row.code}</strong><div>{typeText[row.type]||row.type} · {statusText[row.status]} · {qty(row.quantity)} · {money(row.amount)}</div></div>)}</div></ForgeDialog>}{toast&&<div className="fp-toast" role="status">{toast}</div>}</div>
 }
 export default App;
 ${forgeProductUiRuntime}`;

diff --git a/apps/forge-objectstack/src/pages/purchase-inspection-workspace.page.ts b/apps/forge-objectstack/src/pages/purchase-inspection-workspace.page.ts
@@ -24,7 +24,7 @@ function App(){
  function exportRows(){const headers=['待检单号','物料编码','物料名称','规格型号','到货数量','单位','批次号','供应商/客户','采购合同','到货日期','状态','关联检验单','检验结果'],values=filteredRows.map(row=>[row.code,row.item_code,row.name.replace(/^([A-Z]{2,4}-\\d{4}(-\\d+)?\\s+)+/,''),[row.specification,row.model].filter(Boolean).join(' / '),row.arrival_quantity,row.unit_name,row.batch_number||'',state.suppliers[row.supplier_id]?.name||'',state.orders[row.order_id]?.code||'',row.arrived_on||'',row.status,row.inspection_id||'',inspectResult(row)]),csv=[headers,...values].map(line=>line.map(value=>'"'+String(value??'').replace(/"/g,'""')+'"').join(',')).join('\\n'),blob=new Blob(['\\ufeff'+csv],{type:'text/csv;charset=utf-8'}),url=URL.createObjectURL(blob),a=document.createElement('a');a.href=url;a.download='待检验库存.csv';a.click();URL.revokeObjectURL(url);setToast('已导出 '+filteredRows.length+' 条待检记录');}
  return <div className="forge-product forge-procurement forge-iqc">
 <style>{${JSON.stringify(sharedCss)}}</style>
-<div className="body"><ForgeHero section="供应链 / 到货检验 / 待检验库存" title="待检验库存" description="每个物料独立一条待检记录，关联来料检验流程。" icon="▤" tone="orange" art="blueprint"/><div className="fp-action-row"><button className="fp-button primary" onClick={()=>window.location.href=forgeBase+'/page/page_purchase_inspection_workspace'}>下一步：检验单</button></div>{state.error&&<div className="notice">{state.error}</div>}{toast&&<div className="notice">{toast}</div>}<div className="card">
+<div className="body"><ForgeHero section="供应链 / 到货检验 / 待检验库存" title="待检验库存" description="每个物料独立一条待检记录，关联来料检验流程" icon="▤" tone="green" art="blueprint" next={{label:"检验单",href:forgeBase+'/page/page_purchase_inspection_workspace',title:"下一步操作 · 检验单"}}/>{state.error&&<div className="notice">{state.error}</div>}{toast&&<div className="notice">{toast}</div>}<div className="card">
 <div className="toolbar">
 <button className="btn" disabled={!filteredRows.length} onClick={exportRows}>导出</button>
 <button className="btn" onClick={()=>setTaskOpen(true)}>导入/导出任务</button>

diff --git a/apps/forge-objectstack/src/pages/purchase-arrival-notice.page.ts b/apps/forge-objectstack/src/pages/purchase-arrival-notice.page.ts
@@ -16,7 +16,8 @@ function App(){
  return <div className="forge-product forge-an">
 <style>{css}</style>
 <div className="shell">
-<ForgeHero section="供应链 / 到货检验 / 到货通知" title="到货通知" description="采购订单审核后进入目标仓库待到货队列。" icon="▤" tone="blue" art="flow"/><div className="fp-action-row"><button className="fp-button" onClick={load}>刷新</button><button className="fp-button primary" disabled={selected.length!==1} onClick={()=>register(selected[0])}>合并到货登记</button></div>{s.error&&<div className="notice">{s.error}</div>}<section className="card">
+<ForgeHero section="供应链 / 到货检验 / 到货通知" title="到货通知" description="采购订单审核后进入目标仓库待到货队列" icon="▤" tone="blue" art="flow"/>{s.error&&<div className="notice">{s.error}</div>}<section className="card">
+<div className="fp-card-toolbar"><button className="fp-button primary" disabled={selected.length!==1} onClick={()=>register(selected[0])}>合并到货登记</button><span className="fp-grow"/><button className="fp-icon-button" aria-label="刷新" title="刷新" onClick={load}><svg viewBox="0 0 24 24" fill="none" stroke="currentColor" strokeWidth="2" strokeLinecap="round" strokeLinejoin="round"><path d="M21 12a9 9 0 1 1-3-6.7"/><path d="M21 3v6h-6"/></svg></button></div>
 <div className="filters">
 <input aria-label="搜索到货通知" placeholder="通知单号 / 采购订单 / 供应商 / 物料" value={query} onChange={e=>{setQuery(e.target.value);setPage(1)}}/>
 <ForgeDateInput aria-label="预计到货开始日期" value={start} onChange={e=>{setStart(e.target.value);setPage(1)}}/>

diff --git a/docs/evidence/risemap-supply-chain-data-readiness-20260917.md b/docs/evidence/risemap-supply-chain-data-readiness-20260917.md
@@ -587,3 +587,13 @@ RISEMAP 检验规则页实测到明确的批量动作：工具条有「批量启
 3. **到货通知**：本想把「刷新」收进卡片首行图标（RISEMAP 是「合并到货登记 + 刷新图标」），但该页卡片结构与其它页不同，脚本定位失败，**未改动**，留待下一轮手工改。
 
 **仍未做**：到货通知的工具条改版；待检验库存的导出/图标与列核对；检验单列表的「结果/状态/检验员/到货日期」列核对；检验规则的页签、工具栏（批量启用/批量停用按勾选启停）、列与行操作的完整改版。
+
+## 第十九轮：到货通知 / 生产出库 / 出库单列表 / 报损单 工具条收口
+
+- 到货通知：hero 描述去掉句号；「刷新 / 合并到货登记」从卡片外动作行移入卡片首行（合并到货登记为主按钮在最左，刷新为右侧图标），与 RISEMAP「合并到货登记 + 刷新图标」一致；列的 9 项与 RISEMAP 完全一致（选择到货通知/到货通知/供应商·物料/预计到货/目标仓库/来源采购订单/到货进度/采购员/操作）。
+- 待检验库存：hero 由橙色改绿色、描述去句号，「下一步操作 检验单」改为 hero 内磁贴；14 列与 RISEMAP 一致。
+- 生产出库：删除列表上方阶段条，「下一步操作 生产入库」改为 hero 磁贴；打印条码 / 导出▾ 移入卡片首行，刷新为右侧图标。
+- 出库单列表：删除阶段条，打印条码 / 导出▾ 移入卡片首行，刷新为右侧图标。
+- 报损单：删除阶段条包裹，hero 恢复为独立块，新建报损 / 导出▾ 移入卡片首行，刷新为右侧图标。
+
+改后截图覆盖：arrival-notice、pending-inspection、production-out、outbound、damage 的 `-forge.png`。
